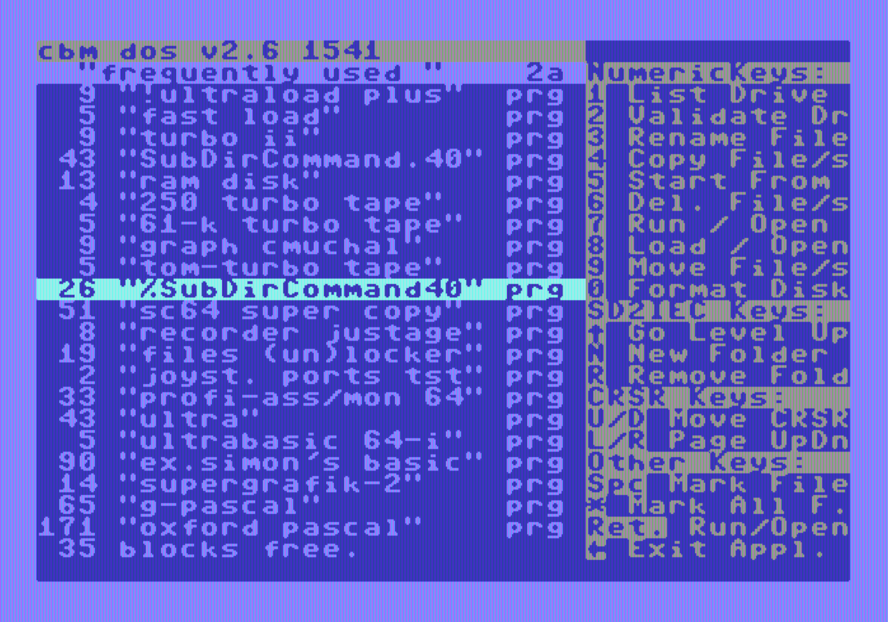
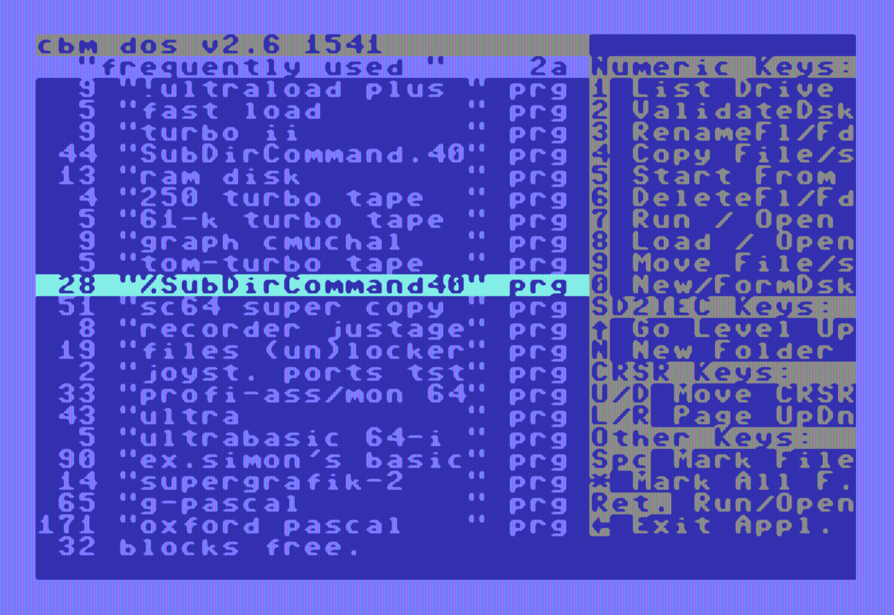
Update the site screenshot for the 28/44-block 4.0 builds.
Replace screen.png with the new VICE capture showing %SubDirCommand40
at 28 blocks and SubDirCommand.40 at 44 blocks.

diff --git a/web/index.html b/web/index.html
@@ -36,7 +36,7 @@
           </div>
         </div>
         <figure class="screen">
-          <img src="./public/screen.png" width="888" height="622"
+          <img src="./public/screen.png" width="894" height="615"
                alt="SubDir Commander on a C64 screen: the file list on the left, the key panel on the right" />
           <figcaption>Current machine-code screen, from VICE on a PAL C64</figcaption>
         </figure>
